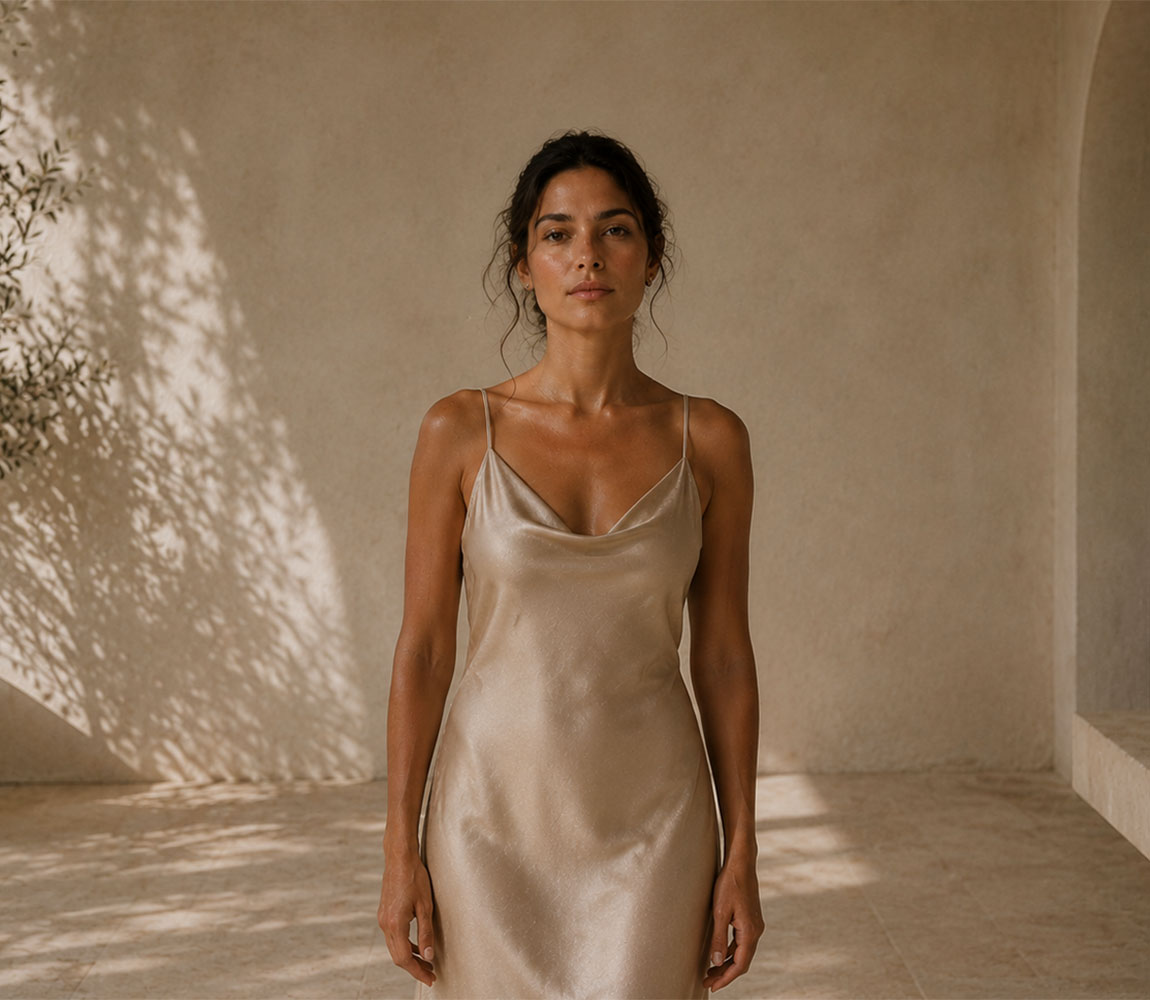
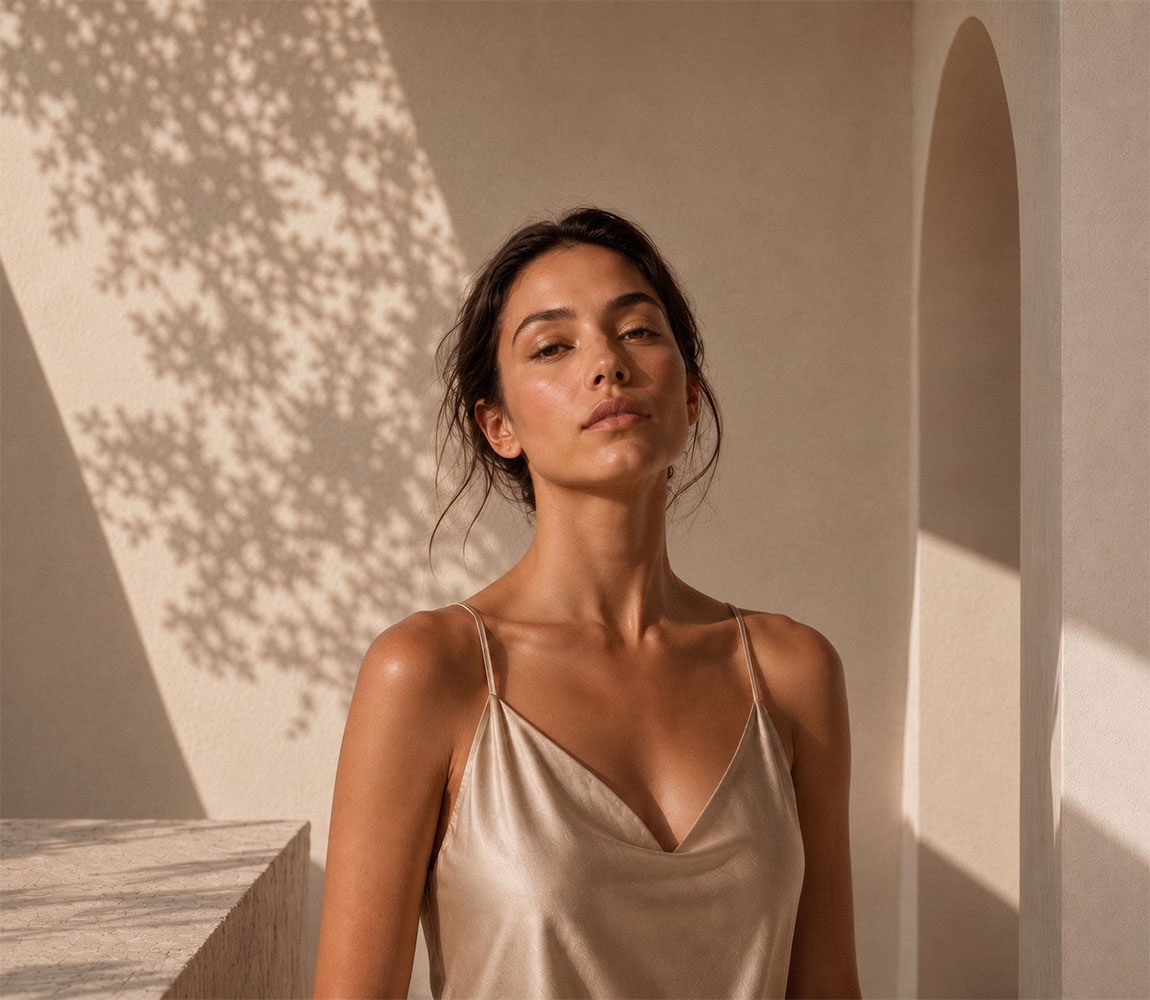
Design: Hide hero scroll chevron below 1024px

diff --git a/app/page.tsx b/app/page.tsx
@@ -104,7 +104,7 @@ export default function Home() {
             </div>
 
             {/* Scroll Down Chevron */}
-            <div className="absolute bottom-8 left-1/2 -translate-x-1/2 flex flex-col items-center gap-1.5 opacity-80 animate-bounce">
+            <div className="absolute bottom-8 left-1/2 -translate-x-1/2 hidden lg:flex flex-col items-center gap-1.5 opacity-80 animate-bounce">
               <svg
                 className="w-6 h-6 text-white"
                 fill="none"